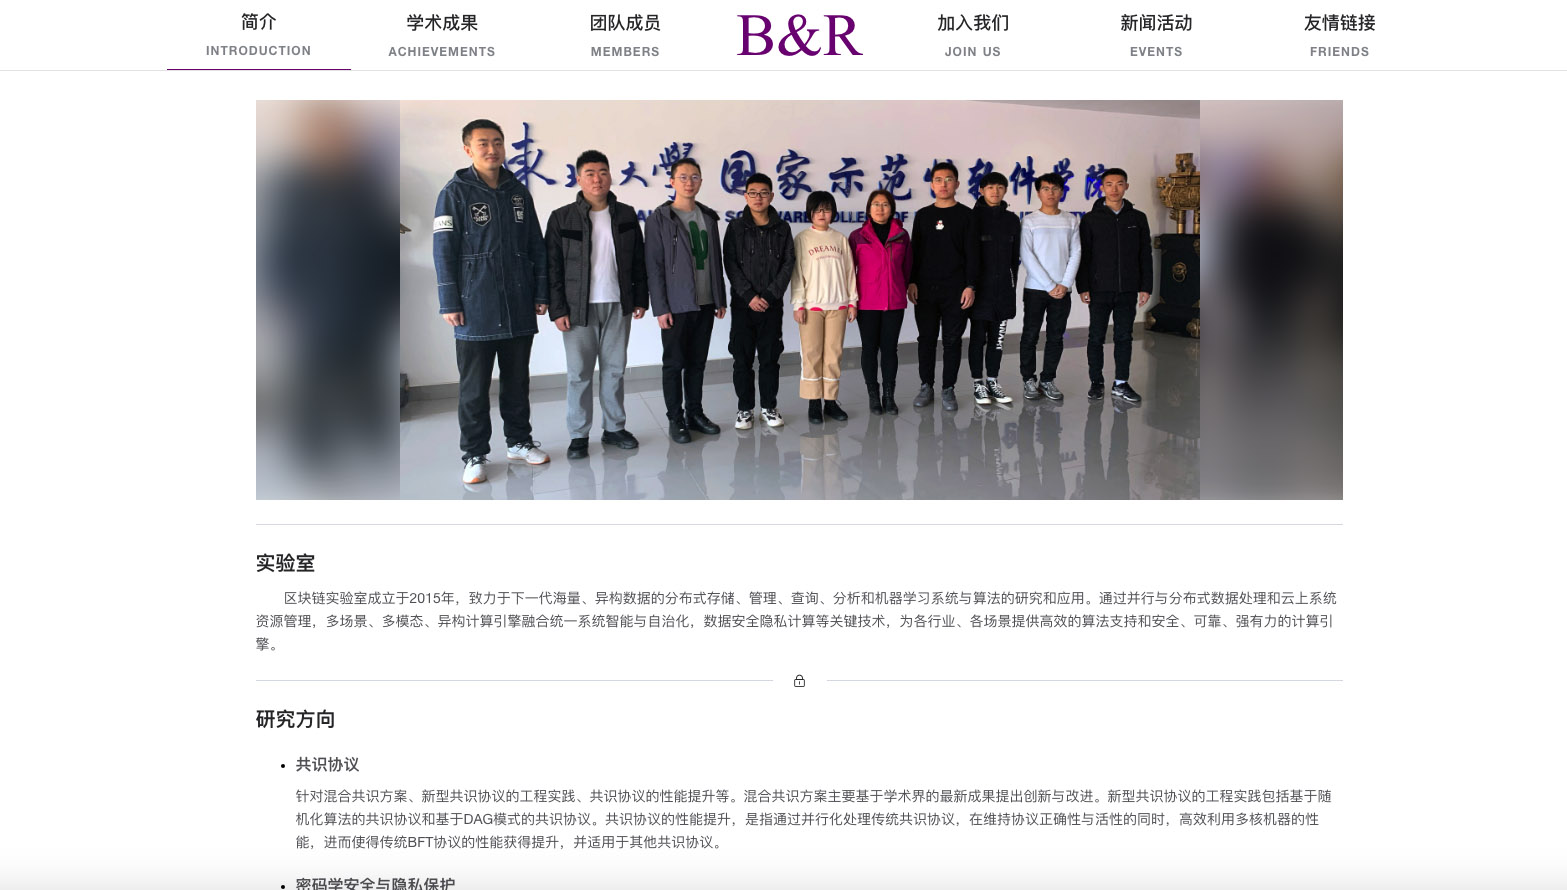
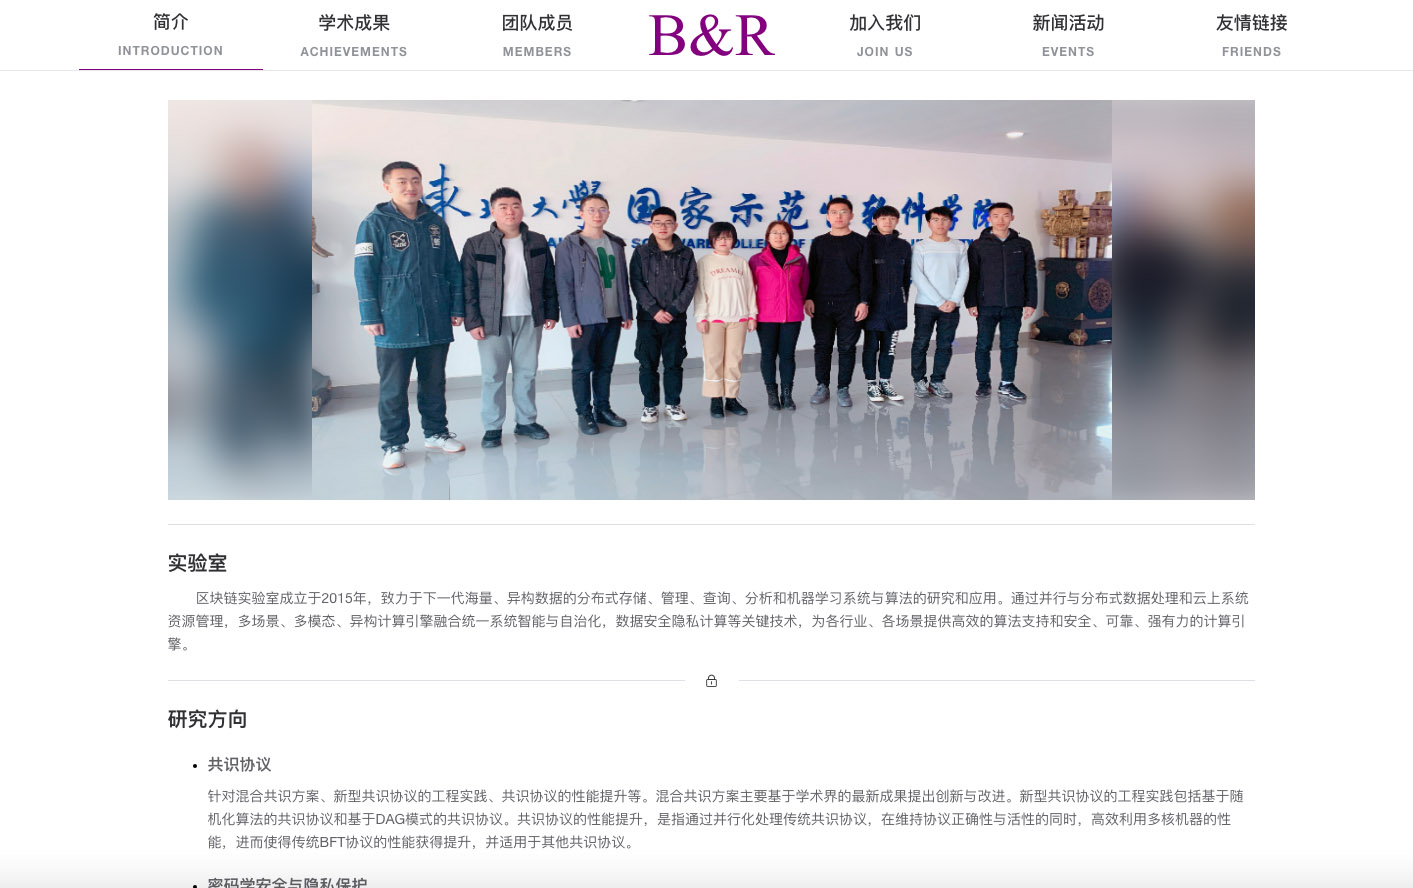
修改信息

diff --git a/pages/events.vue b/pages/events.vue
@@ -5,21 +5,7 @@
       <el-row :gutter="0" type="flex" justify="center">
         <el-col :xs="20" :sm="18" :md="16" :lg="14" :xl="12">
 
-          <h1>小组讨论</h1>
-          <div style="width: 80%;margin: 0 auto">
-            <el-divider></el-divider>
-            <el-image class="animated fadeInRight" src="http://img.zcool.cn/community/014146554332d30000019ae935ad6b.jpg"/>
-            <el-divider></el-divider>
-            <el-image class="animated fadeInLeft" src="http://clubimg.club.vmall.com/data/attachment/forum/201901/29/1720164hfdfiqntsewh9og.png"/>
-            <el-divider></el-divider>
-            <el-image class="animated fadeInRight" src="http://attach.bbs.miui.com/forum/201811/19/072123rjmrmsjnuv3msepw.jpeg"/>
-            <el-divider></el-divider>
-            <el-image class="animated fadeInLeft" src="http://bbsfiles.vivo.com.cn/vivobbs/attachment/forum/201910/06/201006fdl7kesx7fm7j5sk.jpg"/>
-            <el-divider></el-divider>
-            <el-image class="animated fadeInRight" src="http://p.qpic.cn/dnfbbspic/0/dnfbbs_dnfbbs_dnf_gamebbs_qq_com_forum_201910_17_082503ztpxsgizux3qwxsk.jpg/0"/>
-          </div>
 
-          <h1>团队建设</h1>
           <div style="width: 80%;margin: 0 auto">
             <el-divider></el-divider>
             <el-image class="animated fadeInRight" src="/event/1.jpg"/>
@@ -28,13 +14,6 @@
             <el-divider></el-divider>
             <el-image class="animated fadeInRight" src="http://faculty.neu.edu.cn/swc/guogb/images/visitings/QT-2018-5.jpg"/>
             <el-divider></el-divider>
-            <el-image class="animated fadeInLeft" src="http://attach.bbs.miui.com/forum/201811/19/072123rjmrmsjnuv3msepw.jpeg"/>
-            <el-divider></el-divider>
-            <el-image class="animated fadeInRight" src="http://bbsfiles.vivo.com.cn/vivobbs/attachment/forum/201910/06/201006fdl7kesx7fm7j5sk.jpg"/>
-            <el-divider></el-divider>
-            <el-image class="animated fadeInLeft" src="http://p.qpic.cn/dnfbbspic/0/dnfbbs_dnfbbs_dnf_gamebbs_qq_com_forum_201910_17_082503ztpxsgizux3qwxsk.jpg/0"/>
-            <el-divider></el-divider>
-            <el-image class="animated fadeInRight" src="http://b-ssl.duitang.com/uploads/item/201412/06/20141206031537_XhAR2.jpeg"/>
           </div>
 
 

diff --git a/pages/members.vue b/pages/members.vue
@@ -140,27 +140,27 @@
           <h1 id="h1-stu">本科生</h1>
 
           <member
-            name="Name"
+            name="陈杰南"
             avatar=""
-            letter="N"
+            letter="C"
             position="2017级本科生"
             email=""
             description=""
           ></member>
 
           <member
-            name="Name"
+            name="陈星任"
             avatar=""
-            letter="N"
+            letter="C"
             position="2017级本科生"
             email=""
             description=""
           ></member>
 
           <member
-            name="Name"
+            name="张智昭"
             avatar=""
-            letter="N"
+            letter="Z"
             position="2017级本科生"
             email=""
             description=""
@@ -171,19 +171,10 @@
           <h1 id="h1-abroad">留学生</h1>
 
           <member
-            name="Name"
+            name="Hazem"
             avatar=""
-            letter="N"
-            position="2016级留学生"
-            email=""
-            description=""
-          ></member>
-
-          <member
-            name="Name"
-            avatar=""
-            letter="N"
-            position="2017级留学生"
+            letter="H"
+            position="2017级硕士留学生"
             email=""
             description=""
           ></member>
@@ -212,9 +203,9 @@
           ></member>
 
           <member
-            name="Name"
+            name="Shittu"
             avatar=""
-            letter="N"
+            letter="S"
             position="2016级硕士留学生"
             email=""
             description=""

diff --git a/pages/achievements.vue b/pages/achievements.vue
@@ -16,15 +16,15 @@
           <el-divider><i class="el-icon-notebook-2"></i></el-divider>
 
 
-          <h1>申请专利</h1>
+<!--          <h1>申请专利</h1>-->
 
-          <ul>
-            <li v-for="item in patents" class="item">
-              {{item}}
-            </li>
-          </ul>
+<!--          <ul>-->
+<!--            <li v-for="item in patents" class="item">-->
+<!--              {{item}}-->
+<!--            </li>-->
+<!--          </ul>-->
 
-          <el-divider><i class="el-icon-copy-document"></i></el-divider>
+<!--          <el-divider><i class="el-icon-copy-document"></i></el-divider>-->
 
           <h1>获得奖项</h1>
 

diff --git a/pages/index.vue b/pages/index.vue
@@ -8,8 +8,8 @@
         <el-col :xs="20" :sm="18" :md="16" :lg="14" :xl="14">
 
           <div class="group-wrapper animated bounceInDown">
-            <el-image class="group-bg" fit="fill" src="/group-crop.jpg"></el-image>
-            <el-image class="group-ph" src="/group-crop.jpg"></el-image>
+            <el-image class="group-bg" fit="fill" src="/group.jpg"></el-image>
+            <el-image class="group-ph" src="/group.jpg"></el-image>
           </div>
 
           <el-divider></el-divider>
